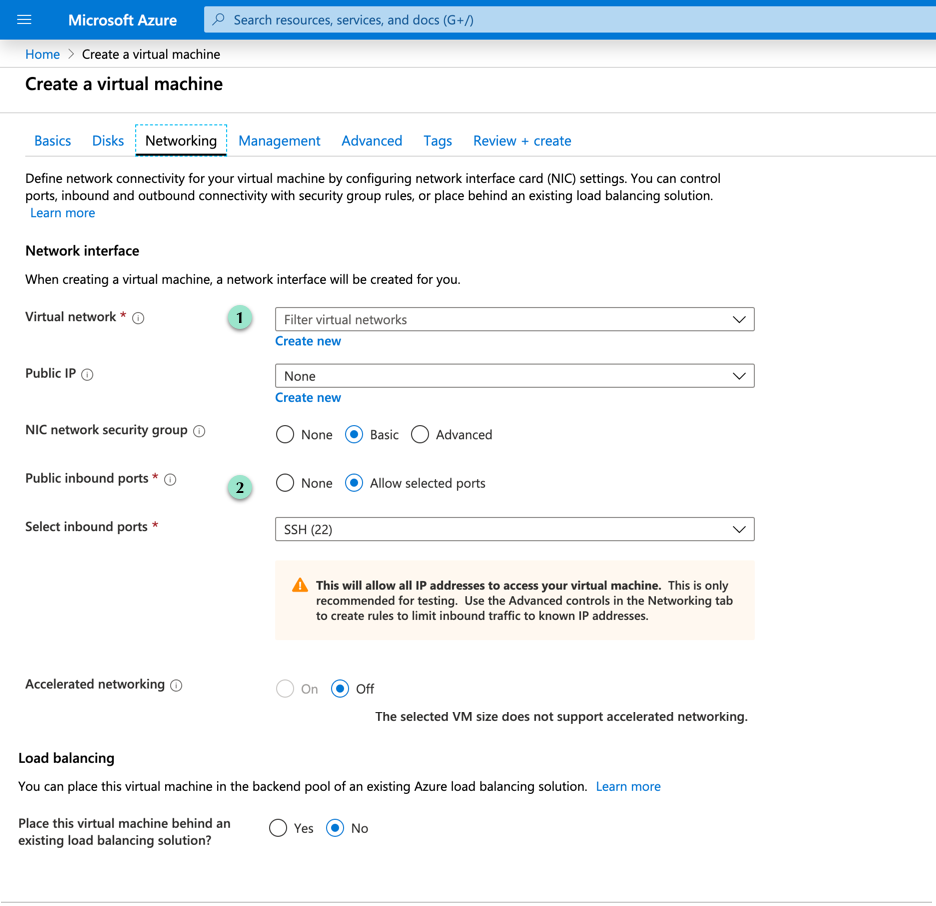
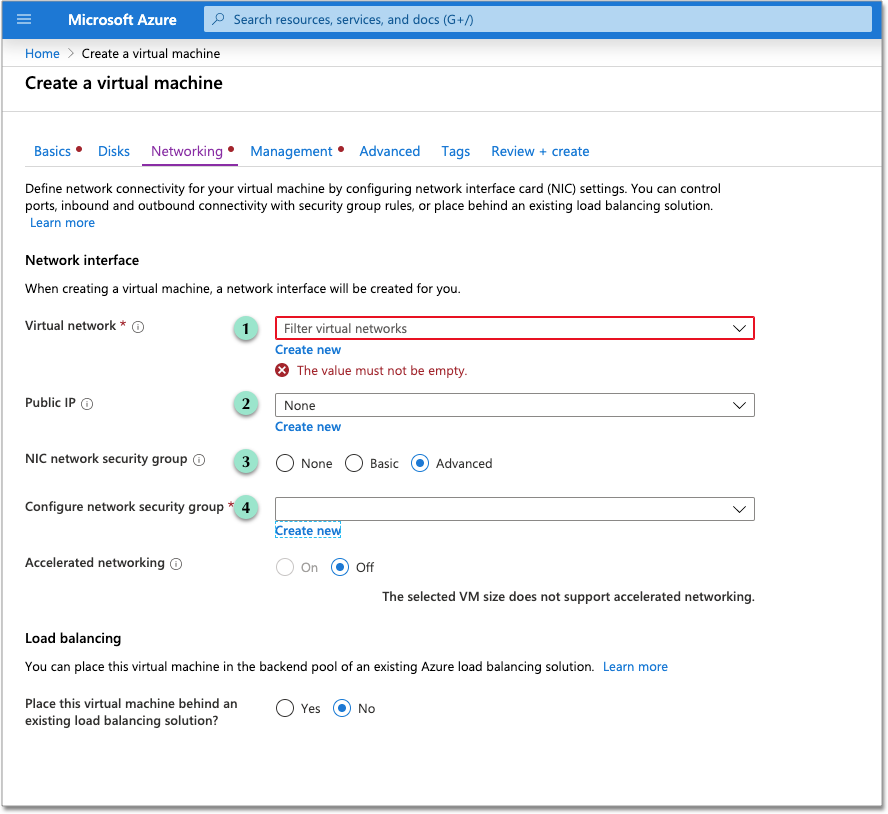
SCAL-53124 implemented changes to Azure VM creation process, Jessi's other edits

diff --git a/_appliance/azure/launch-an-instance.md b/_appliance/azure/launch-an-instance.md
@@ -1,6 +1,6 @@
 ---
 title: [Set up ThoughtSpot in Azure]
-last_updated: 1/6/2020
+last_updated: 1/7/2020
 summary: "After you determine your configuration options, you must set up your virtual
 machines using a ThoughtSpot image for Azure."
 sidebar: mydoc_sidebar
@@ -78,7 +78,7 @@ on the [Azure Marketplace](https://azuremarketplace.microsoft.com/en-us/marketpl
       </tr>
       <tr>
         <td><strong>6</strong></td>
-        <td>Choose a disk size that works for your instance. Refer to <a href="/appliance/azure/configuration-options.html">Azure configuration options</a>.</td>
+        <td>Choose <code>E64S_V3 standard</code> for your VM's size. For more information, refer to <a href="/appliance/azure/configuration-options.html">Azure configuration options</a>.</td>
       </tr>
       <tr>
         <td><strong>7</strong></td>
@@ -86,17 +86,36 @@ on the [Azure Marketplace](https://azuremarketplace.microsoft.com/en-us/marketpl
       </tr>
       <tr>
         <td><strong>8</strong></td>
-        <td>Enter your SSH public key. <a href="{{ site.baseurl }}/appliance/contact.html">Contact ThoughtSpot support</a> to obtain a public key, if you do not have one.</td>
+        <td>Enter your SSH public key. <a href="{{ site.baseurl }}/appliance/contact.html">Contact ThoughtSpot support</a> to obtain a public key, if you do not have one. Note that this SSH public key is different from the SSH private key you use later, to ssh into your VM from the command line.</td>
       </tr>
       <tr>
-        <td><strong>9-10</strong></td>
+        <td><strong>9</strong></td>
+        <td>Choose <strong>allow selected ports</strong>.</td>
+      </tr>
+      <tr>
+        <td><strong>10</strong></td>
         <td>Open the necessary Inbound and Outbound ports to ensure that the ThoughtSpot processes do not get blocked. See the <a href="#port-requirements">minimum port requirements.</a></td>
       </tr>
     </table>
 
-2. Under **Disks**, choose a disk type.
+2. Specify information under **Disks**.
 
-    {% include image.html file="azure-disktypes.png" title="Choose a disk type" alt="In the Disks menu, choose an OS disk type, either Premium SSD, Standard HDD, or Standard SSD." caption="Choose a disk type" %}
+    {% include image.html file="azure-disks.png" title="Specify disk information" alt="In the Disks menu, choose a disk type, add data disks, and select managed disks" caption="Specify disk information" %}
+
+    <table>
+      <tr>
+        <td><strong>1</strong></td>
+        <td>Choose a disk type from the dropdown menu. ThoughtSpot recommends the Premium SSD disks.</td>
+      </tr>
+      <tr>
+        <td><strong>2</strong></td>
+        <td>Click <strong>Create and attach a new disk</strong>. Add two data disks. Refer to <a href="/configuration-options.html#thoughtspot-azure-instance-types.html">Azure configuration options</a> to see what size they should be.</td>
+      </tr>
+      <tr>
+        <td><strong>3</strong></td>
+        <td>Under **Advanced**, click **yes** to **use managed disks**.</td>
+      </tr>
+    </table>
 
     {% include tip.html content=" The new Standard SSD disk types are only available for particular regions. Make sure this disk type is supported in the region you chose for your VM before selecting it." %}
 
@@ -107,31 +126,36 @@ on the [Azure Marketplace](https://azuremarketplace.microsoft.com/en-us/marketpl
     {% include image.html file="azure-networking.png" title="Specify networking information" alt="Specify your virtual network, and set inbound and outbound ports, if you haven't already" caption="Specify networking information" %}
 
     <table>
+      <tr>
+        <td><strong>1</strong></td>
+        <td>Find your company's virtual network and select it, or <strong>create new</strong>.</td>
+      </tr>
+      <tr>
+        <td><strong>2</strong></td>
+        <td>Find your company's public IP, or <strong>create new</strong>.</td>
+      </tr>
+      <tr>
+        <td><strong>3</strong></td>
+        <td>Select <strong>Advanced</strong> for <em>NIC network security group</em>.</td>
+      </tr>
+      <tr>
+        <td><strong>4</strong></td>
+        <td>After you select <strong>Advanced</strong>, the <strong>Configure network security group</strong> option appears. Find your company's security group, or <strong>create new</strong>. When creating your security group, ensure that the required ports are open. Refer to the <a href="#port-requirements">minimum port requirements.</a></td>
+      </tr>
     </table>
+5. Under **Management**, configure your monitoring and management preferences. If you have no preferences, you can leave them at their default settings.
 
+6. Under **Advanced**, configure your advanced settings preferences. If you have no preferences, you can leave them at their default settings.
 
-5. Click **OK** to save the Basics, which should look similar to the following example.
+7. Under **Tags**, tag your virtual machine with a human-readable string to help you identify it.
 
-   ![]({{ site.baseurl }}/images/azure-createvmbasics.png "Basic settings on the ThoughtSpot Azure VM")
+8. Click **Review + create** in the bottom left corner of your screen.
 
-### Choose a machine size
+9. Review your changes, and click **create**. Azure does the final validation check.
 
-Under **Choose a size**, select `E64S_V3 standard`. For more information, refer to [Azure configuration options]({{ site.baseurl }}/appliance/azure/configuration-options.html).
-
-![]({{ site.baseurl }}/images/azure_choose_disk_size.png "Choose a disk size")
-
-### Configure network settings, storage, and other options
-
-_Prerequisite_: Get the details needed for setting up the Virtual Network,
-Subnet, and Network Security Group from your Azure support team.
-
-1. For storage, select **Yes** to **use managed disks**.
-
-2. Under **Network**, select **Virtual network**, then **Subnet**, then **Public
-IP addresses**, and set those names, addresses, and ranges approriately for your
-network.
-
-3. Open the necessary Inbound and Outbound ports to ensure that the ThoughtSpot
+{: id="port-requirements"}
+### Minimum required ports
+Open the necessary Inbound and Outbound ports to ensure that the ThoughtSpot
 processes do not get blocked.
 
    The minimum ports needed are:
@@ -147,26 +171,9 @@ processes do not get blocked.
    | 4001  | HTTP         |  Data Cache Debugging         |
 
 
-   {% include note.html content="Nodes purchased from Azure must be reachable to each other so that they can communicate and form a distributed environment. ThoughtSpot requires that these ports be accessible
-between nodes within a cluster.  Use your discretion about whether
-to restrict public access or not for all nodes and all ports." %}
+   {% include note.html content="Nodes purchased from Azure must be reachable to each other so that they can communicate and form a distributed environment. ThoughtSpot requires that these ports be accessible between nodes within a cluster.  Use your discretion about whether to restrict public access or not for all nodes and all ports." %}
 
-    Refer to [network policies]({{ site.baseurl }}/appliance/firewall-ports.html) for more information.
-
-4. Configure `auto shutdown`, `monitoring`, `guest OS diagnostics`, and any other settings to your preference. If you have no preference, you can leave them on their default settings.
-
-   ![]({{ site.baseurl }}/images/azure_network_settings.png "Configure network settings and other options")
-
-5. Click **OK**.
-
-    Azure will do the final validation check.
-
-### Review the Summary
-
-Verify that the validation check succeeded and that summary of information shown
-is correct. If you find errors, reconfigure as needed.
-
-When you are satisfied with the virtual machine setup, click **Create**.
+   Refer to [network policies]({{ site.baseurl }}/appliance/firewall-ports.html) for more information.
 
 ### Prepare for starting up ThoughtSpot
 
@@ -175,12 +182,12 @@ _Prerequisite_: To log into the VM, you need the private key that is available i
 1. Obtain the VM’s public and private IP addresses.
 
    - To see the public IP, click the VM name link. This will show the public IP of the VM.
-   - To see the private IP click Networking (under SETTINGS on the left side of the screen).
+   - To see the private IP, select **more services** from the Microsoft Azure homepage. Select **Networking** from the list on the left side of the screen.
 
-2. In a terminal application, connect to the VM through SSH. Use the private key provided for the admin user.
+2. In a terminal application, connect to the VM through SSH. When prompted, enter the private key provided for the admin user.
 
    - You must file a support ticket to obtain this private key; it is necessary for the first login.
-   - This key is different from the credentials, or the private keys supplied in earlier steps, which do not work in this context.
+   - This key is different from the credentials, or the public keys supplied in earlier steps, which do not work in this context.
 ```
    $ ssh admin@<VM-IP>
 ```   
@@ -199,14 +206,9 @@ _Prerequisite_: To log into the VM, you need the private key that is available i
 4. Update the file `/etc/hosts` with all the node IP addresses for the other VMs
 that will be part of the ThoughtSpot cluster.
 
-### Add Storage Disks
+### Verify storage disks
 
-1. Go back to the VM and click it.
-2. Add 2 SSD disks of 1TB each.
-3. Click **Add data disk** and choose **Create disk from the menu**.
-4. Create one mode data disk (demo-disk2) and save them both.
-5. Click **Save** to add the disks to the VM.
-6. Verify that the disks were added by issuing `lsblk` in your terminal application:
+Verify the existence of your data disks, created in Step 4 of [create an instance](#create-instance), by issuing `lsblk` in your terminal application:
 
    ```
    $ lsblk
@@ -235,9 +237,11 @@ that will be part of the ThoughtSpot cluster.
    $ sudo umount /mnt/resource
    ```
 
+   {% include warning.html content="The <code>/mnt/resource</code> disk, which is mounted on the <code>/dev/sdb</code> disk, is temporary. Any data on it will be wiped if the VM is shut down. You must unmount the <code>/mnt/resource</code> disk." %}
+
 8. Prepare the disks /dev/sdc and /dev/sdd for ThoughtSpot by issuing the following command:
 
-    {% include warning.html content="Do not use the disk <code>/dev/sdb</code>. This disk is reserved for ThoughtSpot use." %}
+    {% include warning.html content="Do not use the disk <code>/dev/sdb</code>. Any data on it will be wiped if the VM is shut down." %}
 
     ```
     $ sudo /usr/local/scaligent/bin/prepare_disks.sh /dev/sdc /dev/sdd
@@ -274,7 +278,7 @@ keep a backup to copy after any subsequent cluster creation or update." %}
    sudo hostnamectl set-hostname <HOSTNAME> --static
    ```
 
-2. Update `/etc/hosts` with the IP and hostname:
+2. Update `/etc/sysconfig/network-scripts/ifcfg-eth0` with the IP and hostname:
 
    ```
    $ sudo vi /etc/sysconfig/network-scripts/ifcfg-eth0

diff --git a/_appliance/gcp/installing-gcp.md b/_appliance/gcp/installing-gcp.md
@@ -1,6 +1,6 @@
 ---
 title: [Configure ThoughtSpot nodes in GCP]
-last_updated: [12/12/2019]
+last_updated: [1/7/2020]
 summary: "Prepare to install your ThoughtSpot cluster by configuring nodes."
 sidebar: mydoc_sidebar
 permalink: /:collection/:path.html
@@ -52,7 +52,7 @@ Next, [install your ThoughtSpot clusters]({{ site.baseurl }}/appliance/gcp/gcp-c
 ## Related information
 Use these references for successful installation and administration of ThoughtSpot.
 
-* [the nodes.config file]({{ site.baseurl }}/appliance/hardware/nodesconfig-example)
+* [The nodes.config file]({{ site.baseurl }}/appliance/hardware/nodesconfig-example)
 * [Parameters of the nodes.config file]({{ site.baseurl }}/appliance/hardware/parameters-nodesconfig.html)
 * [Using the cluster create command]({{ site.baseurl }}/appliance/hardware/cluster-create.html)
 * [Parameters of the `cluster create` command]({{ site.baseurl }}/appliance/hardware/parameters-cluster-create.html)

diff --git a/_appliance/azure/azure-cluster-install.md b/_appliance/azure/azure-cluster-install.md
@@ -1,6 +1,6 @@
 ---
 title: [Install ThoughtSpot clusters in Azure]
-last_updated: [12/12/2019]
+last_updated: [1/7/2020]
 summary: "Learn how to install ThoughtSpot clusters in Azure."
 sidebar: mydoc_sidebar
 permalink: /:collection/:path.html
@@ -56,7 +56,7 @@ Run `tscli cluster create` to create the cluster.
 ## Related information
 Use these references for successful installation and administration of ThoughtSpot:
 
-* [the nodes.config file]({{ site.baseurl }}/appliance/hardware/nodesconfig-example)
+* [The nodes.config file]({{ site.baseurl }}/appliance/hardware/nodesconfig-example)
 * [Parameters of the nodes.config file]({{ site.baseurl }}/appliance/hardware/parameters-nodesconfig.html)
 * [Using the cluster create command]({{ site.baseurl }}/appliance/hardware/cluster-create.html)
 * [Parameters of the `cluster create` command]({{ site.baseurl }}/appliance/hardware/parameters-cluster-create.html)

diff --git a/_appliance/hardware/configure-nodes-dell.md b/_appliance/hardware/configure-nodes-dell.md
@@ -1,7 +1,7 @@
 ---
 title: [Configure Nodes]
 summary: "Configure ThoughtSpot nodes on your Dell appliance."
-last_updated: 12/17/2019
+last_updated: 1/7/2020
 sidebar: mydoc_sidebar
 permalink: /:collection/:path.html
 ---
@@ -57,7 +57,6 @@ Connecting to local node-scout
 Setting up hostnames for all nodes
 Setting up networking interfaces on all nodes
 Setting up hosts file on all nodes
-Setting up IPMI configuration
 Setting up NTP Servers
 Setting up Timezone
 Done setting up ThoughtSpot

diff --git a/_appliance/azure/installing-azure.md b/_appliance/azure/installing-azure.md
@@ -93,7 +93,6 @@ After you run the node configuration command, your output appears similar to the
     Setting up hostnames for all nodes
     Setting up networking interfaces on all nodes
     Setting up hosts file on all nodes
-    Setting up IPMI configuration
     Setting up NTP Servers
     Setting up Timezone
     Done setting up ThoughtSpot

diff --git a/_includes/content/install/configure-nodes-steps1through5.md b/_includes/content/install/configure-nodes-steps1through5.md
@@ -52,7 +52,6 @@ After you run the node configuration command, your output appears similar to the
     Setting up hostnames for all nodes
     Setting up networking interfaces on all nodes
     Setting up hosts file on all nodes
-    Setting up IPMI configuration
     Setting up NTP Servers
     Setting up Timezone
     Done setting up ThoughtSpot
